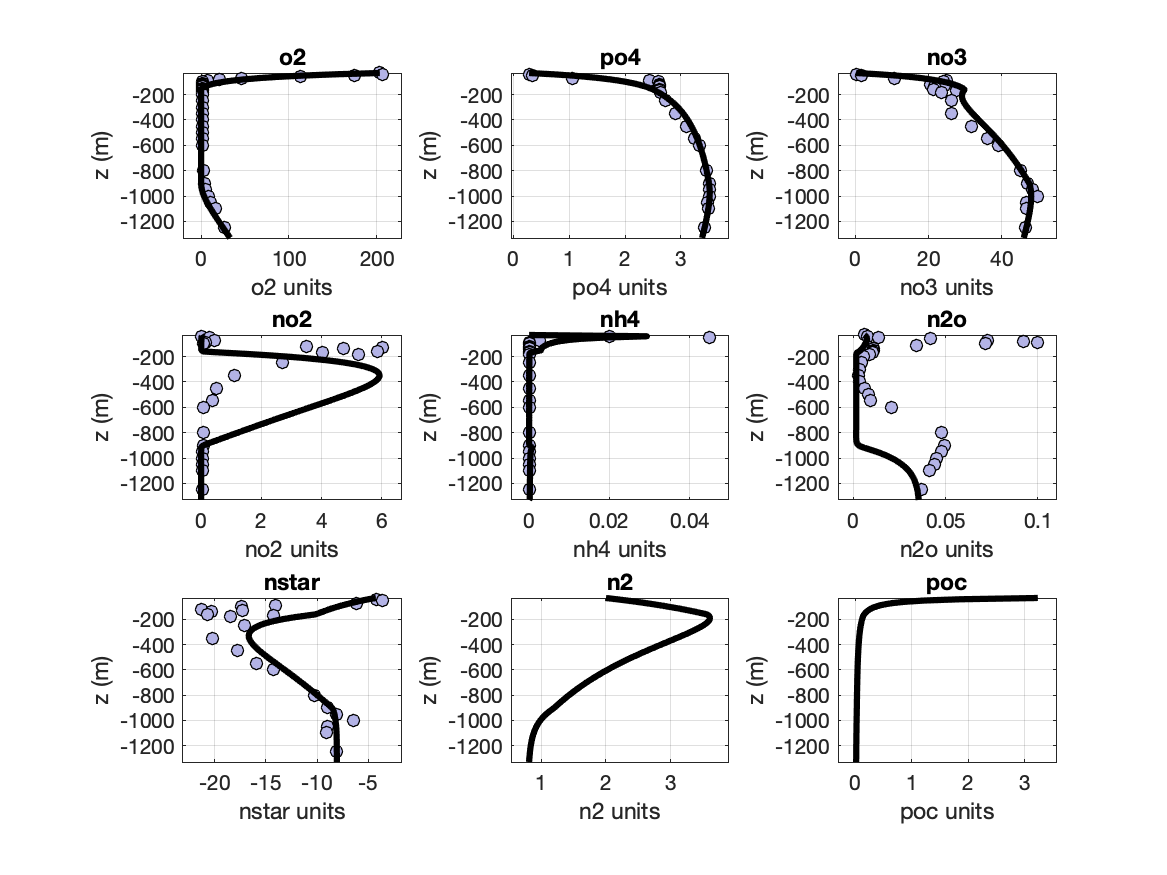
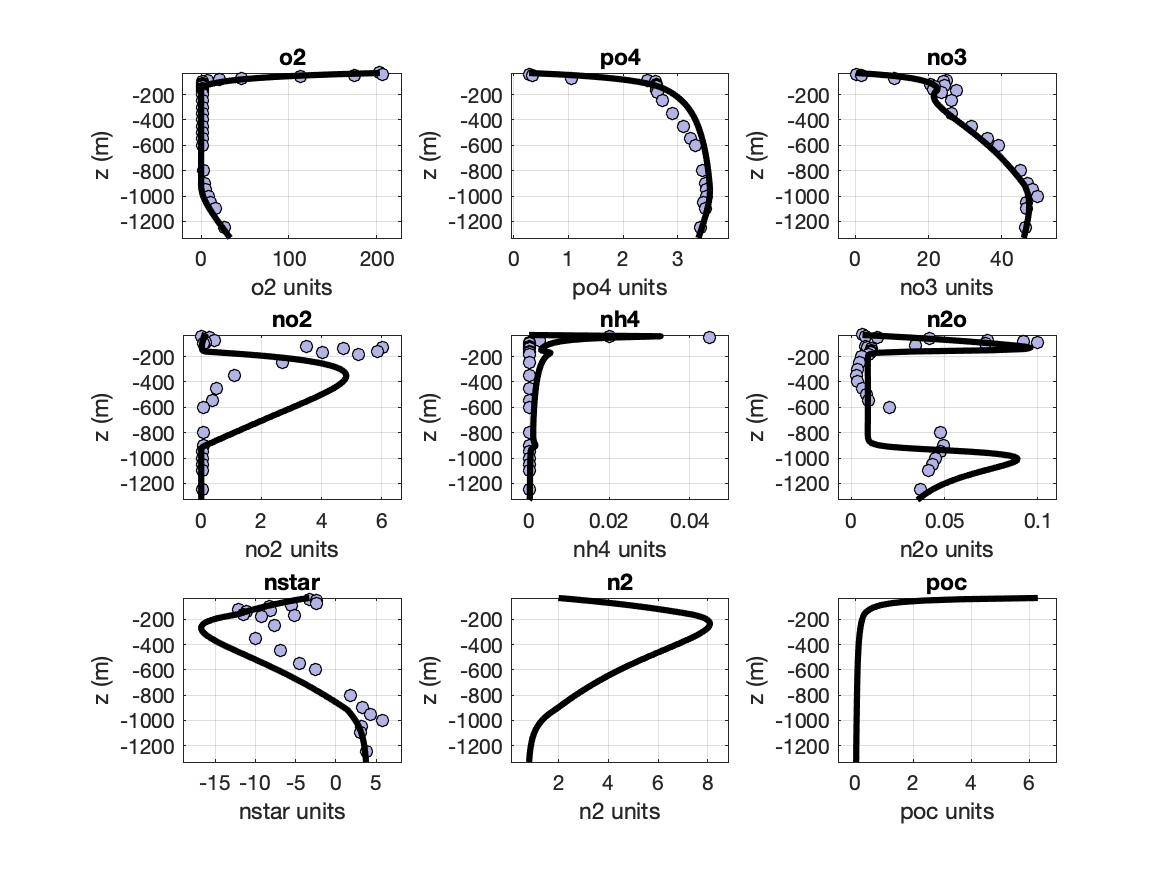
decent fit with [N2O]

diff --git a/runscripts/bgc1d_initbgc_params.m b/runscripts/bgc1d_initbgc_params.m
@@ -7,66 +7,112 @@ function bgc = bgc1d_initbgc_params(bgc)
 %%%%%%%%%%%%%%%%%%%%%%%%%%%%%%%%
 % Organic matter form: C_aH_bO_cN_dP
 % Stoichiometric ratios: C:H:O:N:P = a:b:c:d:1
-% Anderson and Sarmiento 1994 stochiometry
-bgc.stoch_a = 106.0;
+% Anderson 1995 stochiometry
+%bgc.stoch_a = 106.0;
+%bgc.stoch_b = 175.0;
+%bgc.stoch_c = 42.0;
+%bgc.stoch_d = 16.0;
+% Teng and Primeau 2014 stochiometry
+bgc.stoch_a = 83;
 bgc.stoch_b = 175.0;
 bgc.stoch_c = 42.0;
-bgc.stoch_d = 16.0;
+bgc.stoch_d = 12.5;
+% Tanioka 2022 stochiometry
+%bgc.stoch_a = 126;
+%bgc.stoch_b = 175.0;
+%bgc.stoch_c = 42.0;
+%bgc.stoch_d = 19;
 
 %%%%%%% Ammonification %%%%%%%%
 %%%%%%%%%%%%%%%%%%%%%%%%%%%%%%%
-bgc.Krem = 0.08/86400 ;            % 0.08    % Max. specific remineralization rate (1/s)
-bgc.KO2Rem  = 0.046571922641370;   % 4       % Half sat. constant for respiration  (mmolO2/m3) - Martens-Habbena 2009 %v5.4: 0.5;
+bgc.Krem = 0.041/86400 ; % Max. specific remineralization rate (1/s) - Tiano (2014) offshore max rate, based on POCmax = 3.2 µM
+%bgc.Krem = 0.0074/86400 ; % 0.08/86400 % Tiano (2014) offshore oxycline rate, based on POCmax = 3.2 µM
+%bgc.Krem = 0.45/86400 ;  % Max. specific remineralization rate (1/s) - Tiano (2014) station m1 (coastal) max rate, based on POCmax = 3.2 µM
+%bgc.KO2Rem  = 0.018 ;       % Half sat. constant for respiration  (mmolO2/m3) - Tiano (2014) ETNP minimum value
+bgc.KO2Rem  = 0.113 ;       % Half sat. constant for respiration  (mmolO2/m3) - Tiano (2014) ETNP maximum value
 
-%%%%%% Ammonium oxidationn %%%%%
-%%%%%%%%%%%%%%%%%%%%%%%%%%%%%%%%
+%%%%%% Ammonium oxidation %%%%%
+%%%%%%%%%%%%%%%%%%%%%%%%%%%%%%%
 % Ammox: NH4 --> NO2
-bgc.KAo = 0.1170/86400;  % 0.045  % Max. Ammonium oxidation rate (mmolN/m3/s) - Bristow 2017 %v5.4: 0.04556/(86400);
-bgc.KNH4Ao  = 0.130;     % 0.1    % Half sat. constant for nh4 (mmolN/m3) - Peng 2016 %v5.4: 0.0272;
-bgc.KO2Ao = 0.333;       % 0.333+-0.130  % Half sat. constant for Ammonium oxidation (mmolO2/m3) - Bristow 2017
+%bgc.KAo = 0.045/86400;  % Max. Ammonium oxidation rate (mmolN/m3/s) - Bristow 2016 %v5.4: 0.04556/(86400);
+%bgc.KAo = 0.00217/86400; % Max. Ammonium oxidation rate (mmolN/m3/s) - Frey 2023 offshore
+%bgc.KAo = 0.0059/86400;  % Max. Ammonium oxidation rate (mmolN/m3/s) - Frey  2023 coastal
+bgc.KAo = 0.0904/86400; % Max. Ammonium oxidation rate (mmolN/m3/s) - Travis 2023
+%bgc.KAo = 0.00221/86400; % Max. Ammonium oxidation rate (mmolN/m3/s) - CLK ETNP 2018 offshore;
+%bgc.KAo = 0.00468/86400; % Max. Ammonium oxidation rate (mmolN/m3/s) - CLK ETNP 2018 coastal;
+
+%bgc.KNH4Ao  = 0.134;    % Half sat. constant for nh4 (mmolN/m3) - Martens-Habbena 2009 %v5.4: 0.0272;
+%bgc.KNH4Ao  = 0.0272;    % Half sat. constant for nh4 (mmolN/m3) - Peng 2016
+bgc.KNH4Ao  = 0.106;    % Half sat. constant for nh4 (mmolN/m3) - Frey 2023 offshore
+%bgc.KNH4Ao  = 0.048;    % Half sat. constant for nh4 (mmolN/m3) - Frey 2023 coastal
+%bgc.KNH4Ao  = 0.81;    % Half sat. constant for nh4 (mmolN/m3) - N. viennensis Straka 2019
+
+%bgc.KO2Ao = 0.333;       % 0.333+-0.130  % Half sat. constant for Ammonium oxidation (mmolO2/m3) - Bristow 2016
+bgc.KO2Ao = 0.16;       % Half sat. constant for Ammonium oxidation (mmolO2/m3) - Frey 2023 offshore
+%bgc.KO2Ao = 1.36;       % Half sat. constant for Ammonium oxidation (mmolO2/m3) - Frey 2023 coastal
+%bgc.KO2Ao = 2.8;       % Half sat. constant for Ammonium oxidation (mmolO2/m3) - N. viennensis Straka 2019
 
 %%%%%%% Nitrite oxidation %%%%
 %%%%%%%%%%%%%%%%%%%%%%%%%%%%%%
 % Nitrox: NO2 --> NO3
-%bgc.KNo = 0.05/86400;   % 0.256 % Max. Nitrite oxidation rate (mmolN/m3/s) - Bristow 2017 %v5.4: 0.255/(86400);
-bgc.KNo = 0.9/86400; %0.465/86400;   % ETNP 2018 rates;
-bgc.KNO2No = 0.5;       % 1.0 % Dont know (mmolN/m3) %v5.4: 0.0272;
-bgc.KO2No = 0.778;      % Half sat. constant of NO2 for Nitrite oxidation (mmolO2/m3) - Bristow 2017
+%bgc.KNo = 0.256/86400; % Max. Nitrite oxidation rate (mmolN/m3/s) - Bristow 2016 %v5.4: 0.255/(86400);
+%bgc.KNo = 0.03864/86400; % Max. Nitrite oxidation rate (mmolN/m3/s) - Sun 2021a
+%bgc.KNo = 0.186/86400; % Max. Nitrite oxidation rate (mmolN/m3/s) - Babbin 2020 ETNP coastal
+bgc.KNo = 0.113/86400; % Max. Nitrite oxidation rate (mmolN/m3/s) - Babbin 2020 ETNP offshore
+%bgc.KNo = 0.0874/86400; % Max. Nitrite oxidation rate (mmolN/m3/s) - Travis 2023
+%bgc.KNo = 0.465/86400;   % Max. Nitrite oxidation rate (mmolN/m3/s) - CLK ETNP 2018 rates;
+
+%bgc.KNO2No = 6.7;       % Half sat. constant for nitrite oxidation (mmolN/m3) - Sun 2021 offshore %v5.4: 0.0272;
+bgc.KNO2No = 0.8;       % Half sat. constant for nitrite oxidation (mmolN/m3) - Sun 2021 coastal
+
+%bgc.KO2No = 0.778;      % Half sat. constant of NO2 for Nitrite oxidation (mmolO2/m3) - Bristow 2017
+bgc.KO2No = 0.01;      % Half sat. constant of NO2 for Nitrite oxidation (mmolO2/m3) - Sun 2021 (INSIGNIFICANT in sun 2021)
 
 %%%%%%% Denitrification %%%%%%%
 %%%%%%%%%%%%%%%%%%%%%%%%%%%%%%%
+% calculate [POC]max to convert rates to rate constants
 % Denitrif1: NO3 --> NO2
 %bgc.KDen1 = 0.0215/86400;  % Max. denitrif1 rate (1/s) %v5.4: 0.08/2/(86400);
-bgc.KDen1 = 0.005/86400; %0.033/86400;  % ETNP 2018 rates;
-bgc.KO2Den1 = 5.0;         % 5.0 O2 poisoning constant for denitrif1 (mmolO2/m3) %v5.4: 1.0;
+%bgc.KDen1 = 0.00078/86400; % Max. denitrif1 rate (1/s) - Nicole light & rates paper coastal
+%bgc.KDen1 = 0.0029/86400; % Max. denitrif1 rate (1/s) - Nicole light & rates paper offshore
+bgc.KDen1 = 0.0024/86400; % Max. denitrif1 rate (1/s) - CLK ETNP 2018 rates
+bgc.KO2Den1 = 5.0;         % O2 poisoning constant for denitrif1 (mmolO2/m3) %v5.4: 1.0;
 bgc.KNO3Den1 = 0.4;        % Half sat. constant of NO3 for denitrif1 (mmolNO3/m3) %v5.4: 0.5;
 
 % Denitrif2: NO2 --> N2O
-bgc.KDen2 = 0.0005/86400;   %0.08/86400;% Max. denitrif2 rate (1/s) %v5.4: 0.08/6/(86400);
-bgc.KO2Den2 = 2.3;         % O2 poisoning constant for denitrif2 (mmolO2/m3) %v5.4: 0.3;
+%bgc.KDen2 = 0.08/86400;% Max. denitrif2 rate (1/s) %v5.4: 0.08/6/(86400);
+bgc.KDen2 = 0.0005/86400; %0.000073/86400;   % Max. denitrif2 rate (1/s) - CLK ETNP 2018 rates
+bgc.KO2Den2 = 0.9434;         % O2 poisoning constant for denitrif2 (mmolO2/m3) - CLK ETNP 2018 rates (1/1.06)
 bgc.KNO2Den2 = 0.05;       % Half sat. constant of NO2 for denitrification2 (mmolNO3/m3) %v5.4: 0.5;
 
 % Denitrif3: N2O --> N2
-bgc.KDen3 = 0.0455/86400;   % Max. denitrif3 rate (1/s) %v5.4: 0.08/3/(86400); %v5.4: 0.08/3/(86400);
+%bgc.KDen3 = 0.0455/86400;   % Max. denitrif3 rate (1/s) %v5.4: 0.08/3/(86400);
+bgc.KDen3 = 0.02/86400; %0.00090/86400;   % Max. denitrif3 rate (1/s)  - Sun 2021b
 bgc.KO2Den3 = 0.11;         % O2 poisoning constant for denitrif3 (mmolO2/m3) %v5.4: 0.0292;
 bgc.KN2ODen3 = 0.2;         % Half sat. constant of N2O for denitrification3 (mmolNO3/m3) %v5.4: 0.02;
 
 % Denitrif4: NO3 --> N2O
-bgc.KDen4 = 0.003/6/(86400);            %0.08/6/(86400); % Max. denitrif2 rate (1/s)
-bgc.KO2Den4 = 0.3;                    % Frey et al., 2020 (Figure 4c): 1/0.175 = 5.71
-bgc.KNO3Den4 = 0.5;                    % Half sat. constant of NO2 for denitrification2 (mmolNO3/m3)
+%bgc.KDen4 = 0.08/6/(86400);    % Max. denitrif2 rate (1/s)
+bgc.KDen4 = 0.015/6/(86400); %0.00046/6/(86400);  % Max. denitrif2 rate (1/s) - CLK ETNP 2018 rates
+bgc.KO2Den4 = 3.3333;           %  O2 poisoning constant for denitrif4 (mmolO2/m3) - CLK ETNP 2018 rates (1/0.3)
+%bgc.KO2Den4 = 5.71;            %  O2 poisoning constant for denitrif4 (mmolO2/m3)- Frey et al., 2020 (Figure 4c)
+bgc.KNO3Den4 = 0.5;             % Half sat. constant of NO2 for denitrification2 (mmolNO3/m3)
 %%%%%%%%%% Anammox %%%%%%%%%%%%
 %%%%%%%%%%%%%%%%%%%%%%%%%%%%%%%
-bgc.KAx     = 0.3900/86400; % Max. Anaerobic Ammonium oxidation rate (mmolN/m3/s) - Bristow 2017 %v5.4: 0.02/86400;
-bgc.KNH4Ax  = 0.23;         % Half sat. constant of NH4 for anammox (mmolNH4/m3) %v5.4: 0.0274;
-bgc.KNO2Ax  = 0.1;          % Half sat. constant of NO2 for anammox (mmolNO2/m3) %v5.4: 0.5;
-bgc.KO2Ax   = 0.7;          % O2 poisoning constant for anammox (mmolO2/m3) %v5.4: 0.886;
+%bgc.KAx     = 0.0062/86400; % Max. Anaerobic Ammonium oxidation rate (mmolN/m3/s) - Bristow 2017 Bay of Bengal %v5.4: 0.02/86400;
+%bgc.KAx     = 0.0262/86400; % Max. Anaerobic Ammonium oxidation rate (mmolN/m3/s) - Babbin 2020 ETNP coastal
+bgc.KAx     = 0.0132/86400; % Max. Anaerobic Ammonium oxidation rate (mmolN/m3/s) - Babbin 2020 ETNP offshore
+%bgc.KAx     = 0.0335/86400; % Max. Anaerobic Ammonium oxidation rate (mmolN/m3/s) - Karthäuser 2021 ETSP coastal
+%bgc.KAx     = 0.0083/86400; % Max. Anaerobic Ammonium oxidation rate(mmolN/m3/s) - Karthäuser 2021 ETSP offshore
+bgc.KNH4Ax  = 0.23; %3.0;         % Half sat. constant of NH4 for anammox (mmolNH4/m3) - Zhang 2020 %v5.4: 0.0274;
+bgc.KNO2Ax  = 0.2; %0.1;          % Half sat. constant of NO2 for anammox (mmolNO2/m3) - Zhang 2020 %v5.4: 0.5;
+bgc.KO2Ax   = 0.092;          % O2 poisoning constant for anammox (mmolO2/m3) - Straka 2019 %v5.4: 0.886;
 
 %%%%%%%%%% Hybrid N2O production %%%%%%%%%%%%
 %%%%%%%%%%%%%%%%%%%%%%%%%%%%%%%%%%%%%%%%%%%%
-bgc.yHy     = 0.138 ;
-bgc.KNO2Hy  = 0.1;
-bgc.KO2Hy   = 0.19;          % O2 poisoning constant for hybrid N2O production
+bgc.yHy     = 0.20 ;          % maximum yield for hybrid N2O production
+bgc.KNO2Hy  = 0.01;
+bgc.KO2Hy   = 1.3514;          % O2 poisoning constant for hybrid N2O production
 
 %%%%% N2O prod via ammox %%%%%%
 %%%%%%%%%%%%%%%%%%%%%%%%%%%%%%%

diff --git a/runscripts/bgc1d_initboundary.m b/runscripts/bgc1d_initboundary.m
@@ -19,16 +19,16 @@ case 'ETNP'
 	bgc.no2_bot = 0;                   % Bry cond. for deep nitrite            (mmolNO2/m3)
 	bgc.n2_top = 2.0;                   % Bry cond. for surface N2 excess       (mmolN2/m3)
 	bgc.n2_bot = 0.8131;                % Bry cond. for deep N2 excess          (mmolN2/m3)
-    bgc.d15no3_top = 11.0;              % Bry cond. for surface del15NO3        (permil)
-    bgc.d15no3_bot = 6.32;              % Bry cond. for deep del15NO3           (permil)
-    bgc.d15no2_top = 5.0;               % Bry cond. for surface del15NO2        (permil)
-    bgc.d15no2_bot = -40.0;             % Bry cond. for deep del15NO2           (permil)
+    bgc.d15no3_top = 10.8883;              % Bry cond. for surface del15NO3        (permil)
+    bgc.d15no3_bot = 6.4018;              % Bry cond. for deep del15NO3           (permil)
+    bgc.d15no2_top = 1.2774;               % Bry cond. for surface del15NO2        (permil)
+    bgc.d15no2_bot = -32.7035;             % Bry cond. for deep del15NO2           (permil)
     bgc.d15nh4_top = 15.0;              % Bry cond. for surface del15NH4        (permil)
     bgc.d15nh4_bot = 5.0;               % Bry cond. for deep del15NH4           (permil)
-    bgc.d15n2oA_top = 18.0;             % Bry cond. for surface delN2O-A        (permil)
-    bgc.d15n2oA_bot = 22.34;            % Bry cond. for deep delN2O-A           (permil)
-    bgc.d15n2oB_top = -3.0;             % Bry cond. for surface delN2O-B        (permil)
-    bgc.d15n2oB_bot = -2.6;             % Bry cond. for deep delN2O-B           (permil)	
+    bgc.d15n2oA_top = 18.5201;             % Bry cond. for surface delN2O-A        (permil)
+    bgc.d15n2oA_bot = 22.1587;            % Bry cond. for deep delN2O-A           (permil)
+    bgc.d15n2oB_top = -3.4409;             % Bry cond. for surface delN2O-B        (permil)
+    bgc.d15n2oB_bot = -2.5703 ;             % Bry cond. for deep delN2O-B           (permil)	
 
 case 'ETSP'
 	bgc.poc_flux_top = -7.5/86400*0.8*1.85; % Bry cond. for top POC Flux            (mmolC/m2/s)

diff --git a/runscripts/bgc1d_initialize.m b/runscripts/bgc1d_initialize.m
@@ -104,10 +104,10 @@ end
 
 %%%%%% Upwelling speed %%%%%%%%%
 % Depth-dependent velocity requires a forcing file (set in bgc1d_initialize_DepParam.m)
-bgc.wup_param = 2.0 * 7.972e-8; %4.0 * 7.972e-8;% 1.8395e-7; % m/s  % note: 10 m/y = 3.1710e-07 m/s % v5.4: 1.683e-7;
+bgc.wup_param = 2.0 * 7.972e-8; % 1.8395e-7; % m/s  % note: 10 m/y = 3.1710e-07 m/s % v5.4: 1.683e-7;
 
 %%%%%%%%%%% Diffusion %%%%%%%%%%
-bgc.Kv_param  = 2.0 * 1.701e-5; % constant vertical diffusion coefficient in m^2/s % v5.4: 1.701e-5;
+bgc.Kv_param  = 2.0 * 1.701e-5; %2.0 * 1.701e-5 % constant vertical diffusion coefficient in m^2/s % v5.4: 1.701e-5;
 % For sigmoidal Kv, use the following parameters
 bgc.Kv_top = 0.70 * 2.0 * 1.701e-5;
 bgc.Kv_bot = 1.00 * 2.0 * 1.701e-5;
